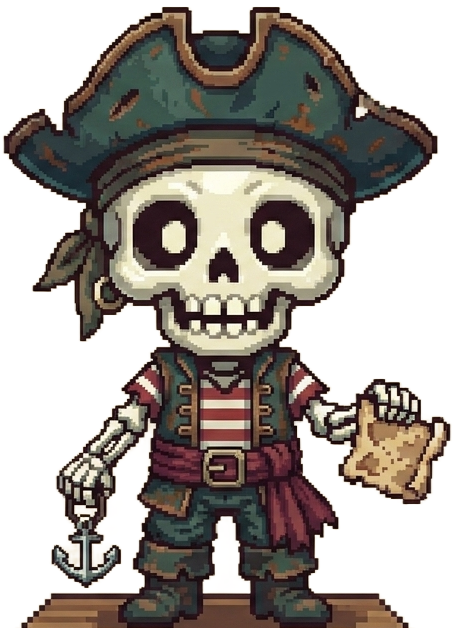
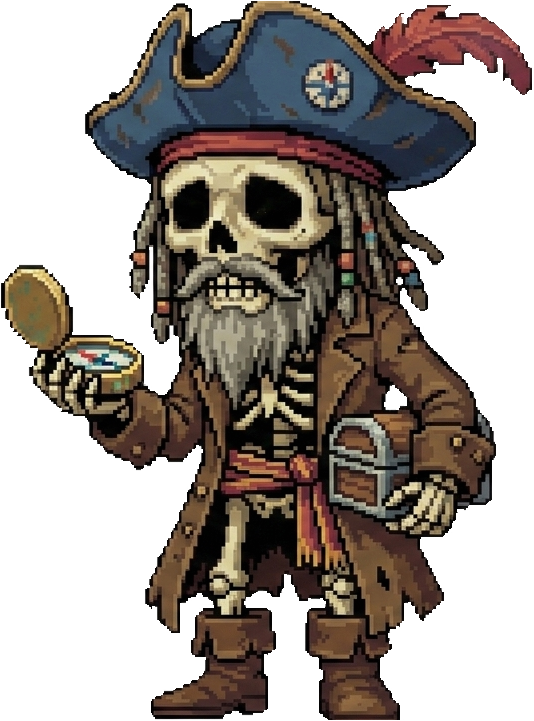
bug de desbloqueio de bioma arrumado, e dialogo com npc do oceano finalizado

diff --git a/lib/location_service.dart b/lib/location_service.dart
@@ -11,8 +11,8 @@ class LocationService {
   StreamSubscription<Position>? positionStream;
 
   Position get _mockPosition => Position(
-    latitude: -22.833065, 
-    longitude: -47.052013,
+    latitude: -22.834115,   // Entorno do Prédio H15 — PUC-Campinas
+    longitude: -47.052605,
     timestamp: DateTime.now(),
     accuracy: 5.0,
     altitude: 0.0,
@@ -24,24 +24,24 @@ class LocationService {
 
     /*
     Floresta:
-    latitude: -22.834115   // Entorno do Prédio H15 — PUC-Campinas
-    longitude: -47.052605
+    latitude: -22.834115,   // Entorno do Prédio H15 — PUC-Campinas
+    longitude: -47.052605,
 
     Geleira:
-    latitude: -22.832475   // Entorno do CT — PUC-Campinas
-    longitude: -47.052738  
+    latitude: -22.832475,   // Entorno do CT — PUC-Campinas
+    longitude: -47.052738,  
 
     Oceano:
-    latitude: -22.833065   // Entorno da Praça de Alimentação — PUC-Campinas
-    longitude: -47.052013
+    latitude: -22.833065,   // Entorno da Praça de Alimentação — PUC-Campinas
+    longitude: -47.052013,
 
     Deserto:
-    latitude: -22.833992   // Entorno do Administrativo I — PUC-Campinas
-    longitude: -47.050558  
+    latitude: -22.833992,   // Entorno do Administrativo I — PUC-Campinas
+    longitude: -47.050558,  
 
     Vulcão:
-    latitude: -22.831766   // Entorno do Administrativo II — PUC-Campinas
-    longitude: -47.050741  
+    latitude: -22.831766,   // Entorno do Administrativo II — PUC-Campinas
+    longitude: -47.050741,  
     */
   );
 

diff --git a/lib/character_screen.dart b/lib/character_screen.dart
@@ -86,9 +86,7 @@ class _CharacterScreenState extends State<CharacterScreen>
 
   void _sincronizarBiomasComSave() {
     for (final bioma in BiomaData.biomas) {
-      if (meuSave.biomasAbertos.contains(bioma.id)) {
-        bioma.isUnlocked = true;
-      }
+      bioma.isUnlocked = meuSave.biomasAbertos.contains(bioma.id);
     }
   }
 
@@ -340,7 +338,6 @@ class _CharacterScreenState extends State<CharacterScreen>
           break;
           
         case 'falou_com_pirata':
-        case 'dica_pirata_recebida': 
           if (meuSave.flags['falou_com_pirata'] == true) return;
           meuSave.flags['falou_com_pirata'] = true;
           if (!meuSave.biomasAbertos.contains('bioma_04')) meuSave.biomasAbertos.add('bioma_04');
@@ -508,11 +505,10 @@ class _CharacterScreenState extends State<CharacterScreen>
   Widget build(BuildContext context) {
     Bioma? biomaAlvo;
     String nomeDestino = 'Destino';
-
     if (nivelProgresso < BiomaData.biomas.length) {
       biomaAlvo = BiomaData.biomas[nivelProgresso];
       nomeDestino = biomaAlvo.name;
-    } else if (nivelProgresso >= BiomaData.biomas.length) {
+    } else {
       biomaAlvo = BiomaData.biomas[0]; 
       nomeDestino = "Retorno a Floresta";
     }

diff --git a/lib/bioma_data.dart b/lib/bioma_data.dart
@@ -56,7 +56,7 @@ class BiomaData {
           radiusInMeters: 50.0,
           isUnlocked: false,
           assetImagePath: 'assets/images/deserto.jpg',
-          unlockCondition: 'dica_pirata_recebida',
+          unlockCondition: 'falou_com_pirata',
         ),
 
         Bioma(
